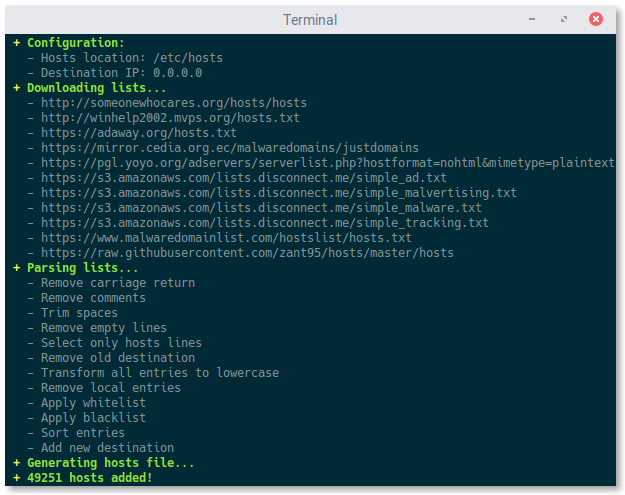
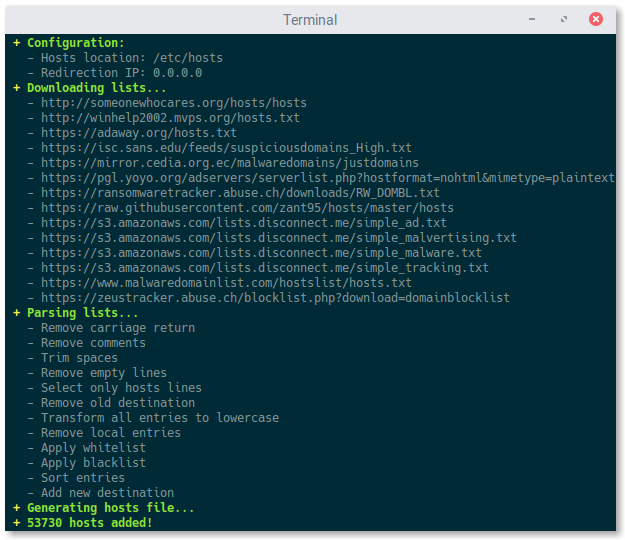
Add more hosts sources and extra arguments

Changed region(s): [[0.0, 0.0303, 0.9728, 1.0]]

diff --git a/README.md b/README.md
@@ -3,14 +3,17 @@ This shell script, designed for GNU/Linux, generates a hosts file based on multi
 - http://someonewhocares.org/hosts/hosts
 - http://winhelp2002.mvps.org/hosts.txt
 - https://adaway.org/hosts.txt
+- https://isc.sans.edu/feeds/suspiciousdomains_High.txt
 - https://mirror.cedia.org.ec/malwaredomains/justdomains
 - https://pgl.yoyo.org/adservers/serverlist.php?hostformat=nohtml&mimetype=plaintext
+- https://ransomwaretracker.abuse.ch/downloads/RW_DOMBL.txt
+- https://raw.githubusercontent.com/zant95/hosts/master/hosts
 - https://s3.amazonaws.com/lists.disconnect.me/simple_ad.txt
 - https://s3.amazonaws.com/lists.disconnect.me/simple_malvertising.txt
 - https://s3.amazonaws.com/lists.disconnect.me/simple_malware.txt
 - https://s3.amazonaws.com/lists.disconnect.me/simple_tracking.txt
 - https://www.malwaredomainlist.com/hostslist/hosts.txt
-- https://raw.githubusercontent.com/zant95/hosts/master/hosts
+- https://zeustracker.abuse.ch/blocklist.php?download=domainblocklist
 
 ## What is this for?
 To prevent your computer from connecting to domains who serve ads and malware.
@@ -21,10 +24,12 @@ This will increase the security of your computer and save bandwidth.
 Usage: hosts-update [OPTION]...
  -O    Output file
  -R    Redirection IP
- -H    File header
+ -H    Hosts header
  -S    Hosts sources (space separated entries)
  -W    Whitelist (space separated entries, POSIX basic regex)
  -B    Blacklist (space separated entries)
+ -y    Automatic "yes" to prompts
+ -n    Automatic "no" to prompts
  -h    Print this help
 ```
 Run latest version from GitHub:
